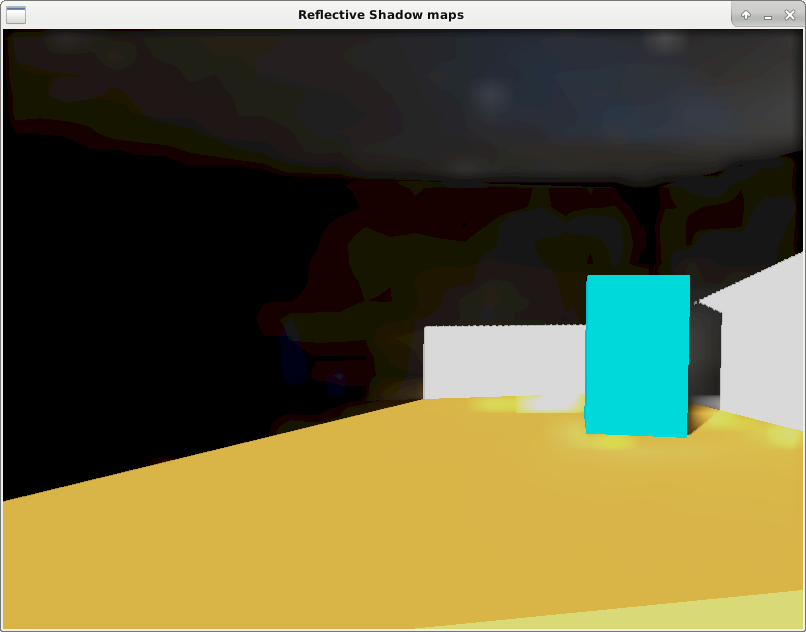
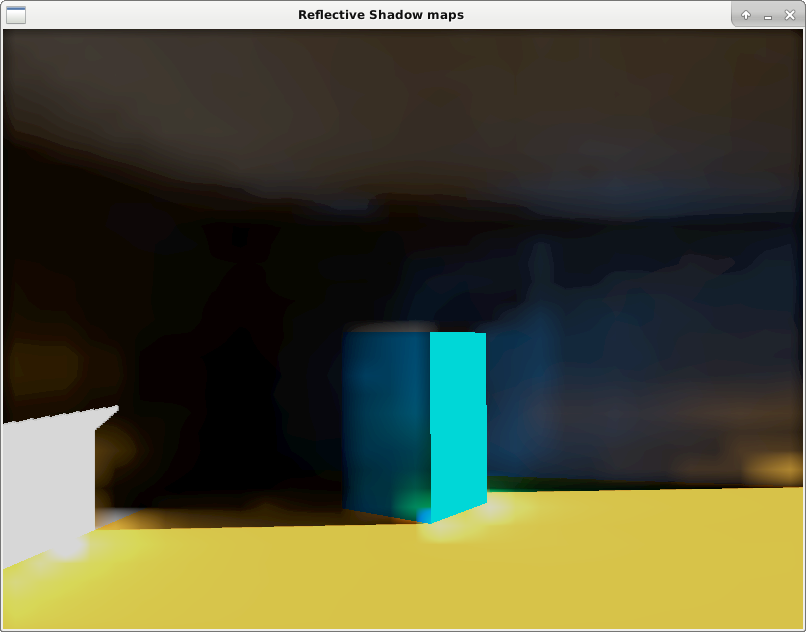
adjust shadow map bias to fix acne (#9)
* adjust shadow map bias to fix acne

* update readme

diff --git a/src/shared/plane.cpp b/src/shared/plane.cpp
@@ -70,7 +70,7 @@ GLuint Plane::mVBO = 0;
 const float Plane::mVerts[14*4] = {
   // positions        // normals       // texCoords // tangents       // bitangents
   -1.0f, -1.0f, 0.0f, 0.0f, 0.0f, 1.0f, 0.0f, 0.0f, 1.0f, 0.0f, 0.0f, 0.0f, 1.0f, 0.0f,
-  -1.0f,  1.0f, 0.0f, 0.0f, 0.0f, 1.0f, 0.0f, 1.0f, 1.0f, 0.0f, 0.0f, 0.0f, 1.0f, 0.0f,
   1.0f, -1.0f, 0.0f, 0.0f, 0.0f, 1.0f, 1.0f, 0.0f, 1.0f, 0.0f, 0.0f, 0.0f, 1.0f, 0.0f,
+  -1.0f,  1.0f, 0.0f, 0.0f, 0.0f, 1.0f, 0.0f, 1.0f, 1.0f, 0.0f, 0.0f, 0.0f, 1.0f, 0.0f,
   1.0f,  1.0f, 0.0f, 0.0f, 0.0f, 1.0f, 1.0f, 1.0f, 1.0f, 0.0f, 0.0f, 0.0f, 1.0f, 0.0f,
 };

diff --git a/src/reflective_shadow_maps/reflective_shadow_maps.cpp b/src/reflective_shadow_maps/reflective_shadow_maps.cpp
@@ -15,6 +15,10 @@ ReflectiveShadowMapsApp::ReflectiveShadowMapsApp(
 
 void ReflectiveShadowMapsApp::setUpScene() {
   glEnable(GL_DEPTH_TEST);
+  glEnable(GL_CULL_FACE);
+  glFrontFace(GL_CCW);
+  glCullFace(GL_BACK);
+
   buildGeometry();
   initRSM(2048, 2048);
   initRSMOffsets(300);

diff --git a/README.md b/README.md
@@ -20,15 +20,18 @@ According to https://learnopengl.com/PBR/Theory
 
 ![Physically Based Rendering](./screenshots/pbr.png)
 
+Environment cubemaps were taken from [sIBL archive](http://www.hdrlabs.com/sibl/archive.html).
+PBR materials were taken from [FreePBR.com](https://freepbr.com/).
+
 ## Reflective Shadow Maps
 According to this paper http://www.klayge.org/material/3_12/GI/rsm.pdf
 
-Generally it works, but I was not able to get rid of some of the artifacts.
+I have not implemented final interpolation step (with recalculation of
+global illumination at edges), as described in the paper.
+Instead I simply interpolated illumination from low-res texture for
+whole screen. This leads to blurry halos around the objects.
 
 ![Reflective Shadow Maps](./screenshots/rsm.png)
-
-Environment cubemaps were taken from [sIBL archive](http://www.hdrlabs.com/sibl/archive.html).
-PBR materials were taken from [FreePBR.com](https://freepbr.com/).
 
 # Setting up
 
